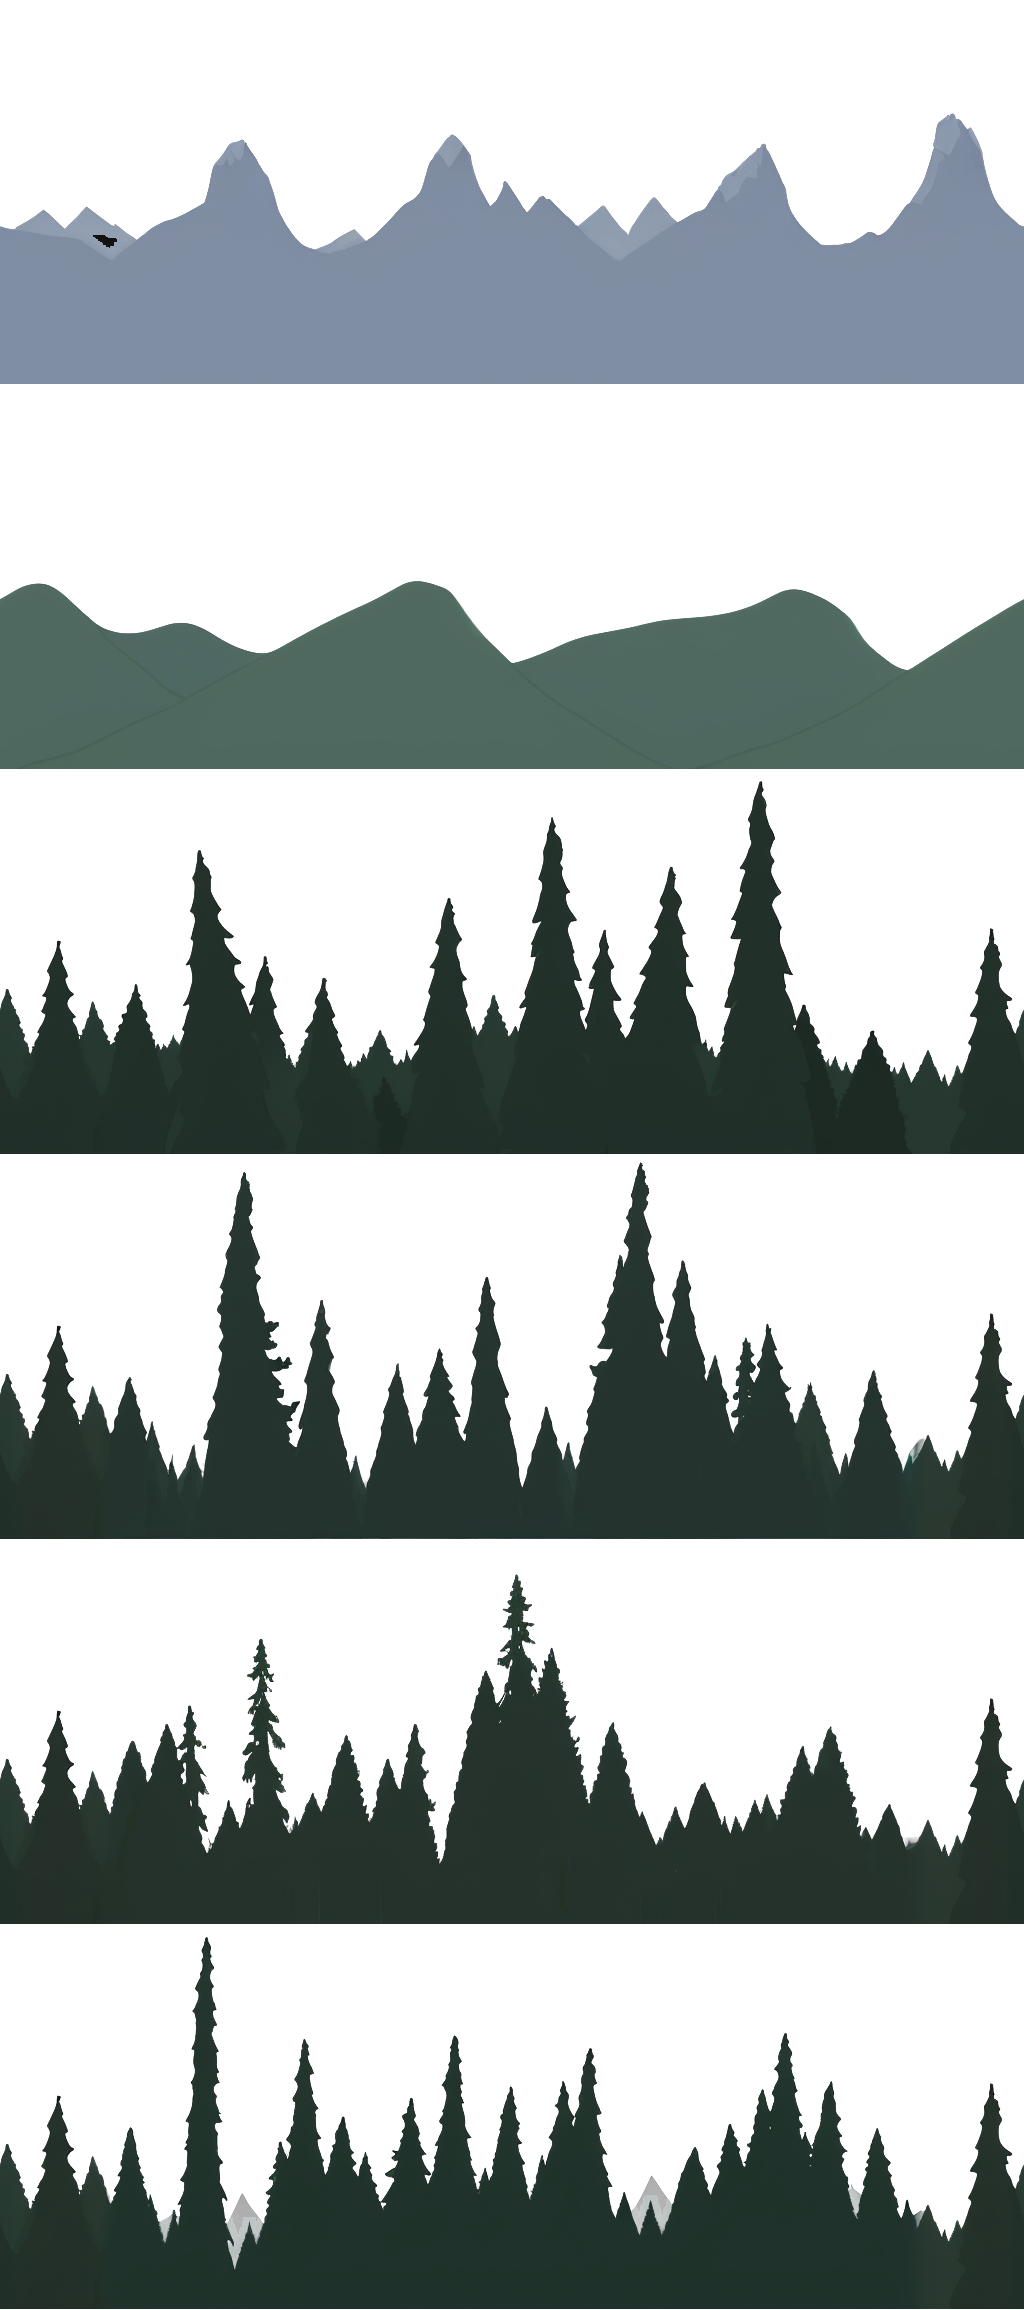
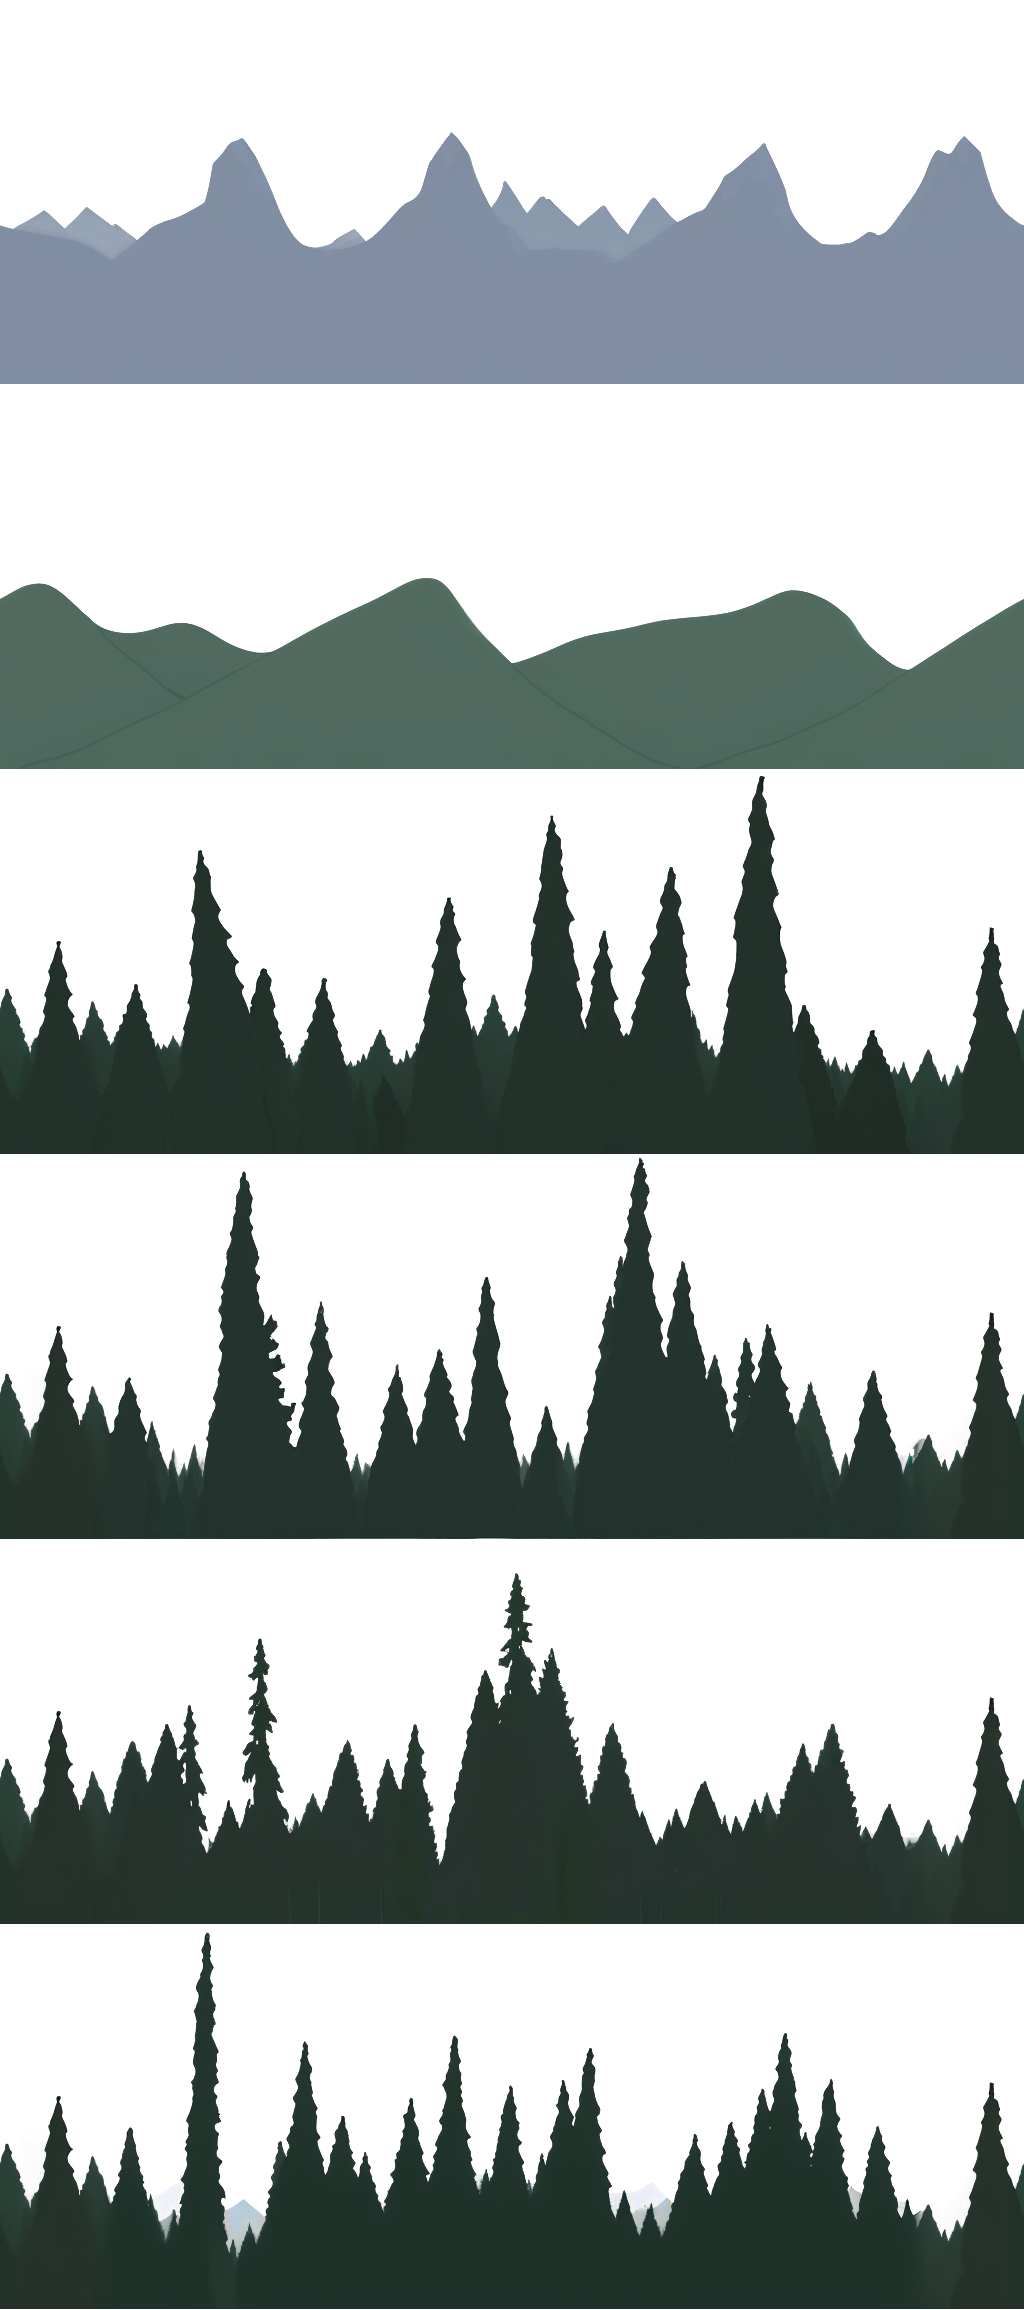
AI strips: the mountain strip's black bird was layer.py's edge fill, not SD; specks apart from a layer are cut (r242)
layer.py took an edge pixel's colour from solid pixels within ~6 px and
divided 0 by 0 past that reach: a pale far ridge (alpha 0.92-0.94) came out
black, the 'bird'. It now keeps the un-mixed colour there. layer.py and
pixel.py drop alpha islands apart from the main mass, connectivity wrapping
around the loop (--keep-islands to keep them). run.sh's negative prompt names
birds, animals, creatures (Simon: no creature in a still background). Pages
regenerated: run.sh, and pixel.py over r243's SDXL strips.

Persona: Juno Ralax
Session: juno-fedora-parallax-99

diff --git a/tools/r239-ai-strips/layer.py b/tools/r239-ai-strips/layer.py
@@ -6,12 +6,16 @@ The sky colour is read from the strip's top rows; a pixel's alpha rises from 0 t
 moves away from it (between --near and --far, in 0..255 RGB distance; --far defaults to the
 layer's own contrast). The strip loops already, and
 this is per pixel, so the alpha loops too.
+Alpha islands that do not touch the layer's main mass (a speck SD left in the sky) are cut, with the
+faint edge around them; connectivity is taken around the loop. --keep-islands keeps them, for a layer
+meant to be scattered (clouds).
 --pixel N: pixel art. Box-downscale by N, quantise to --colours colours (one palette for the
 layer, or --palette's), and cut alpha hard at 50%: every pixel is one palette colour, fully opaque or fully clear.
 The PNG is the small one; the page draws it scaled N times with the Nearest filter.
 """
 import argparse
 import sys
+from collections import deque
 
 import numpy as np
 from PIL import Image
@@ -25,12 +29,38 @@ def blur(a):
     return out / 9
 
 
+def islands(mask):
+    """Each 4-connected component of mask but the largest, as one mask; column 0 touches column w-1."""
+    h, w = mask.shape
+    label = np.zeros(mask.shape, np.int32)
+    sizes = [0]
+    for y0, x0 in zip(*np.nonzero(mask)):
+        if label[y0, x0]:
+            continue
+        n = len(sizes)
+        label[y0, x0] = n
+        todo, size = deque([(y0, x0)]), 0
+        while todo:
+            y, x = todo.popleft()
+            size += 1
+            for ny, nx in ((y - 1, x), (y + 1, x), (y, (x - 1) % w), (y, (x + 1) % w)):
+                if 0 <= ny < h and mask[ny, nx] and not label[ny, nx]:
+                    label[ny, nx] = n
+                    todo.append((ny, nx))
+        sizes.append(size)
+    if len(sizes) <= 2:
+        return np.zeros(mask.shape, bool)
+    main = int(np.argmax(sizes))
+    return (label > 0) & (label != main)
+
+
 def main():
     ap = argparse.ArgumentParser()
     ap.add_argument("src")
     ap.add_argument("out")
     ap.add_argument("--near", type=float, default=18)
     ap.add_argument("--far", type=float, default=0, help="0: 0.85 x the layer's median distance from the sky")
+    ap.add_argument("--keep-islands", action="store_true", help="keep alpha islands apart from the main mass")
     ap.add_argument("--pixel", type=int, default=0)
     ap.add_argument("--colours", type=int, default=12)
     ap.add_argument("--palette", help="--pixel: build the palette from this cut layer's opaque colours (one for all segments)")
@@ -42,6 +72,13 @@ def main():
     # sky, half hill as solid, a light line along the silhouette.
     far = a.far if a.far else 0.85 * float(np.median(d[d > 48])) if (d > 48).any() else 48
     alpha = np.clip((d - a.near) / (far - a.near), 0, 1)
+    if not a.keep_islands:
+        cut = islands(alpha > 0.5)
+        if cut.any():
+            # The island's faint edge goes with it: alpha within 3 px of it, outside the main mass.
+            near = blur(blur(blur(cut.astype(np.float32)))) > 0
+            alpha[near & ~((alpha > 0.5) & ~cut)] = 0
+            print(f"{a.out}: {int(cut.sum())} px of alpha islands cut", file=sys.stderr)
     # Un-mix the sky out of the edge pixels, so a light fringe does not ring the layer.
     a3 = np.maximum(alpha, 1e-3)[..., None]
     rgb = np.clip((img - sky * (1 - a3)) / a3, 0, 255)
@@ -52,7 +89,10 @@ def main():
     fill, wsum = rgb * solid[..., None], solid.copy()
     for _ in range(6):  # spread the solid colours outward, ~2^6 px
         fill, wsum = blur(fill), blur(wsum)
-    rgb = np.where(solid[..., None] > 0, rgb, fill / np.maximum(wsum, 1e-6)[..., None])
+    # Past their reach (a pale ridge, alpha under 0.95 over more than ~6 px) the un-mixed colour stays:
+    # fill / wsum there is 0 / 0, and was drawn black (r242's "bird").
+    reached = (wsum > 1e-6)[..., None]
+    rgb = np.where(solid[..., None] > 0, rgb, np.where(reached, fill / np.maximum(wsum, 1e-6)[..., None], rgb))
     rgba = np.dstack([rgb, alpha * 255]).astype(np.uint8)
     out = Image.fromarray(rgba, "RGBA")
     if a.pixel > 1:

diff --git a/tools/r239-ai-strips/pixel.py b/tools/r239-ai-strips/pixel.py
@@ -10,13 +10,16 @@ count across is rounded so it divides the width exactly, and sampling wraps: the
 the small one does too.
 Then the sky is keyed out hard (colour distance from the top rows' colour, cut halfway to the
 layer's own distance) and the opaque pixels are quantised to --colours colours, or to --palette's
-(the cut layers of one page share it). Art on the top row exits 3, as layer.py does.
+(the cut layers of one page share it). Opaque cells apart from the layer's main mass are cleared,
+as layer.py does (r242), and art on the top row exits 3.
 """
 import argparse
 import sys
 
 import numpy as np
 from PIL import Image
+
+from layer import islands
 
 
 def steps(img, axis):
@@ -83,6 +86,10 @@ def main():
     d = np.linalg.norm(small - sky, axis=2)
     far = float(np.median(d[d > 48])) if (d > 48).any() else 48
     opaque = (d > far / 2) & inside
+    speck = islands(opaque)
+    if speck.any():
+        print(f"{a.out}: {int(speck.sum())} cells of alpha islands cut", file=sys.stderr)
+    opaque &= ~speck
     rgb = Image.fromarray(small.round().clip(0, 255).astype(np.uint8))
     src = Image.fromarray(small[opaque].round().clip(0, 255).astype(np.uint8)[None])
     if a.palette:

diff --git a/docs/ai-parallax.md b/docs/ai-parallax.md
@@ -12,7 +12,7 @@ drawn by `core` (`tools/parallax-lab-shots.sh tools/r239-ai-strips/page build/la
 | 1. Shape | `sil.py` | Draws the layer's silhouette (ridge, hills, treeline) as a sum of sines of whole frequencies over the width, with trees placed on a cylinder. It loops by construction, like an SVG would, and it stays editable: a seed and a few numbers. |
 | 2. Paint | `gen.py img2img --tile x` | SD 1.5 (`dreamshaper_8`) repaints the flat silhouette at denoise 0.65, with every convolution of the UNet and the VAE padded **circularly along X** (circular padding). The model paints on a cylinder, so the strip's right edge runs on into its left one. Spikes come out as real pines. |
 | 3. Vary | `sil.py --edges-of` + `gen.py variants` | More strips, **edge-locked variants**, that start and end on the first one's columns: a new silhouette whose ends are the first one's, painted only in the middle (noise mask), then the first strip's outer 8 px laid back exactly. **Any variant can follow any other**, so one `SEQUENCE` layer chains them in a different order every cycle. |
-| 4. Cut | `layer.py` | Keys the flat sky out to alpha, takes edge colours from solid neighbours (no light rim), and fails on art cut at the top row. `--pixel 4 --colours 10`: box-downscales, quantises to one palette (`--palette`: shared by all segments of a sequence) and cuts alpha hard, for a page drawn `Nearest`. |
+| 4. Cut | `layer.py` | Keys the flat sky out to alpha, takes edge colours from solid neighbours (no light rim), cuts the alpha islands apart from the layer's mass (around the loop; `--keep-islands` for clouds), and fails on art cut at the top row. `--pixel 4 --colours 10`: box-downscales, quantises to one palette (`--palette`: shared by all segments of a sequence) and cuts alpha hard, for a page drawn `Nearest`. |
 
 Measured on the cut layers (`seam.py`: the colour step at the join divided by the median step inside the picture;
 1 means the join is as smooth as the picture itself):
@@ -81,7 +81,7 @@ server, and leaves the install as it is.
   strip is reproducible only under the same GPU load.
 
 Still wrong: a 1-cell speck can float in the sky next to the silhouette (a cell inside the mask's one-cell slack that
-keys as art): the island cut of r242 removes it. And SDXL drifts off the silhouette: it painted the low crests between
+keys as art): `pixel.py`'s island cut removes it since r242. And SDXL drifts off the silhouette: it painted the low crests between
 the mountains as sky, so the far range reads as a flat band. SD 1.5 lineart held an outline but painted no detail in
 it (r244); an SDXL ControlNet is untried.
 
@@ -105,7 +105,9 @@ it (r244); an SDXL ControlNet is untried.
 
 ## Still wrong in the frames
 
-- SD adds objects nobody asked for: a black bird in the mountain strip, keyed in as part of the layer.
+- r242's "bird" in the mountain strip was not painted by SD: `layer.py` drew black a pale ridge too far from any solid
+  pixel to take an edge colour (0/0). Fixed. `run.sh`'s negative prompt names birds, animals and creatures: a creature
+  would stand still in a scrolling background. Nothing yet catches one SD paints *inside* a layer's mass.
 - Each layer is painted on its own: nothing makes their colours agree. The page's depth fog (`fogStrength`, r217) can
   give the distance, so layers could be painted at full contrast.
 
@@ -113,7 +115,7 @@ it (r244); an SDXL ControlNet is untried.
 
 Tasks under r239, tagged `#assets`:
 
-1. r242: `layer.py` drops the alpha islands that don't touch the layer's mass (the bird).
+1. r242 (done): the bird was `layer.py`'s own black fill; fixed, and `layer.py`/`pixel.py` drop the alpha islands.
 2. r243 (done): pixel art through SDXL + `PixelArt_XL`, see "True pixel art".
 3. r244 (done): ControlNet lineart over the silhouette at 0.8 to 0.9 holds the outline and loses the trees: img2img 0.65
    stays (see "What each idea from the card came to"). r257 (done): a weak hint (0.5, first 60%) at 0.8
